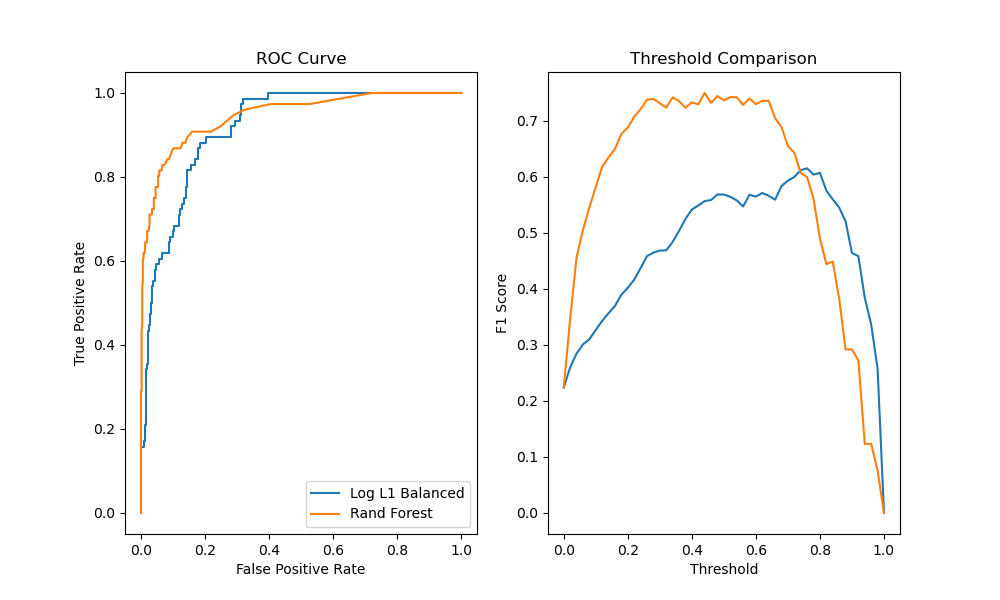
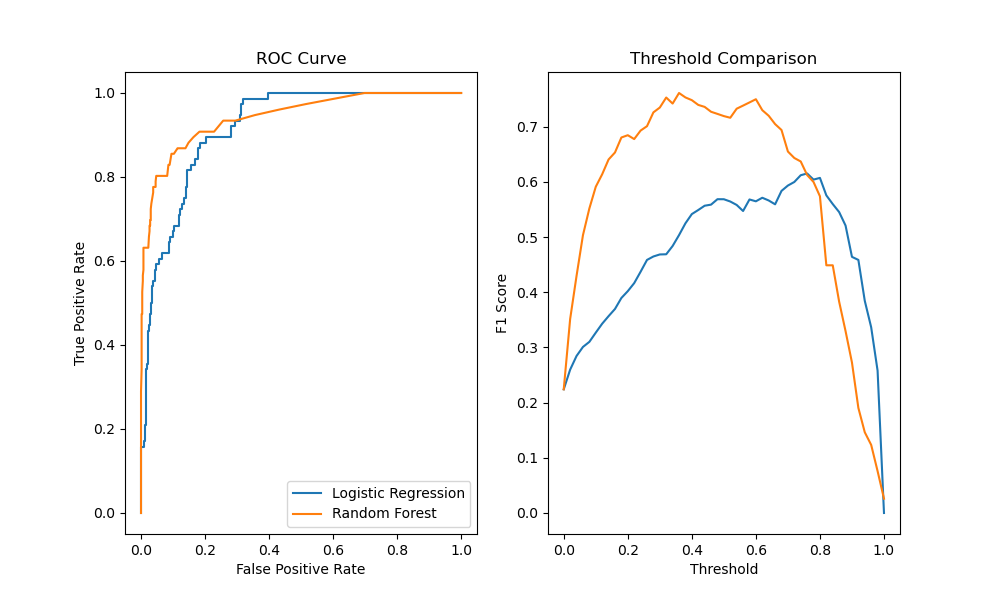
plot updates

diff --git a/src/misc.py b/src/misc.py
@@ -82,7 +82,8 @@ def compare_models(model_list, metric, X, y, thresh=0.5, plot=True):
     axes[1].set_xlabel('Threshold')
     axes[1].set_ylabel('F1 Score')
     axes[1].set_title('Threshold Comparison')
-    # plt.savefig('../images/roc_f1.png')
+    plt.savefig('../images/roc_f1.png')
+    plt.show()
     return metric_result, model_list
 
 
@@ -214,10 +215,10 @@ if __name__ == '__main__':
     lr = LogisticRegression(penalty='none', class_weight='balanced',
                             solver='saga', max_iter=100000)
     rf = RandomForestClassifier(class_weight='balanced_subsample')
-    mod_list = [(lr, 'Log L1 Balanced'), (rf, 'Rand Forest')]
+    mod_list = [(lr, 'Logistic Regression'), (rf, 'Random Forest')]
     scores, model_list = compare_models(mod_list, f1_score, X, y)
     print(scores)
-    
+
     # plot feature importance and coefs
     log_complex = model_list[0][0]
     random_forest = model_list[1][0]

diff --git a/src/model_class.py b/src/model_class.py
@@ -8,7 +8,7 @@ from sklearn.metrics import (recall_score, f1_score, roc_curve,
                              make_scorer, classification_report)
 from sklearn.model_selection import train_test_split, RandomizedSearchCV
 from sklearn.ensemble import RandomForestClassifier
-from data_class import Data
+from data_class import Data, create_data
 import statsmodels.api as sm
 from scipy.stats import uniform, randint
 
@@ -184,7 +184,6 @@ class Model(object):
 
 if __name__ == '__main__':
     all_df = create_data('../data/merged_df.csv', 'All')
-    print(variance_factor(all_df.limited_df).to_markdown())
 
     # logistic regression and random forest models - find best params
     X, y = Data.pop_reported(all_df.limited_df)

diff --git a/src/plots.py b/src/plots.py
@@ -139,7 +139,6 @@ def pca_3d(fig, df, X_scale, y, pca_3):
     result = pd.DataFrame(pca_3.transform(X_scale),
                           columns=['PCA%i' % i for i in range(3)],
                           index=df.index)
-    y_map = np.where(y == 1, '+', '_')
     y_c_map = np.where(y == 1, 'g', 'r')
 
     ax = fig.add_subplot(111, projection='3d')

diff --git a/src/data_class.py b/src/data_class.py
@@ -109,7 +109,7 @@ def create_data(file, analytes):
 
 
 if __name__ == '__main__':
-
+    # check class creation
     all_df = create_data('../data/merged_df.csv', 'All')
     myclo_df = create_data('../data/merged_df_myclo.csv', 'Myclobutanil')
     print(myclo_df.analytes)

diff --git a/README.md b/README.md
@@ -59,6 +59,7 @@ There are a number of features that describe the width of the peak. The features
 
 After dropping features that were used to calculate other features there were still a number that could be collinear. Figure 4 shows four of these pairs of features. Three of the four pairs are highly collinear and one of the pairs is correlated. One of each of these pairs of features needed to be dropped. 
 
+### <Scatter Plot Comparisons>
 ![four_scatter](images/eda_four_scatter.png)
 Figure 4: Scatter plots of pairs of features that were expected to be collinear
 
